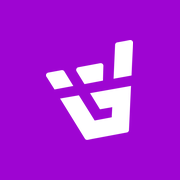
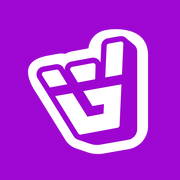
Marca nova: simbolo 3D da mao e roxo exato #9E06D1; secundario mais opaco (roxo a 40% com borda cheia), selos e chips em roxo solido com letra branca

Changed region(s): [[0.1389, 0.1389, 0.8333, 0.8611]]

diff --git a/src/components/ui/form.tsx b/src/components/ui/form.tsx
@@ -228,7 +228,7 @@ export function Grupo({ children, style }: { children: React.ReactNode; style?: 
 export type Tom = 'roxo' | 'verde' | 'ambar' | 'vermelho' | 'neutro'
 
 const TONS: Record<Tom, { fundo: string; texto: string }> = {
-  roxo: { fundo: color.primaryDk, texto: color.primaryCh },
+  roxo: { fundo: color.primary, texto: color.text },
   verde: { fundo: 'rgba(61, 214, 140, 0.14)', texto: color.success },
   ambar: { fundo: 'rgba(245, 165, 36, 0.14)', texto: color.warn },
   vermelho: { fundo: 'rgba(255, 122, 181, 0.14)', texto: color.danger },
@@ -948,12 +948,12 @@ const s = StyleSheet.create({
     backgroundColor: onDark.fill,
     paddingHorizontal: space.base,
   },
-  // Secundario: o roxo da marca em tom claro — destaca sem disputar com o
-  // principal (roxo cheio). O texto e o primaryLt, que passa no contraste AA.
+  // Secundario: o roxo da marca a 40% com borda no roxo cheio — destaca sem
+  // disputar com o principal (roxo cheio). Letra branca.
   botaoSecundario: {
-    backgroundColor: 'rgba(158, 5, 210, 0.16)',
+    backgroundColor: color.primarySoft,
     borderWidth: 1,
-    borderColor: 'rgba(194, 75, 238, 0.55)',
+    borderColor: color.primary,
   },
   botaoPerigo: {
     backgroundColor: 'rgba(255, 122, 181, 0.1)',
@@ -961,7 +961,7 @@ const s = StyleSheet.create({
     borderColor: 'rgba(255, 122, 181, 0.5)',
   },
   botaoRotulo: { ...type.body, fontFamily: 'Inter_600SemiBold', color: color.text },
-  textoSecundario: { color: color.primaryLt },
+  textoSecundario: { color: color.text },
   textoPerigo: { color: color.danger },
   textoAviso: { color: color.warn },
   desabilitado: { opacity: 0.4 },
@@ -1153,7 +1153,7 @@ const s = StyleSheet.create({
     paddingVertical: space.xs,
   },
   dia: { flex: 1, alignItems: 'center' },
-  diaFaixa: { backgroundColor: color.primaryDk },
+  diaFaixa: { backgroundColor: color.primarySoft },
   diaMiolo: {
     width: MIOLO,
     height: MIOLO,
@@ -1196,7 +1196,7 @@ const s = StyleSheet.create({
   diaTexto: { ...type.small, fontFamily: 'Inter_400Regular', color: color.text },
   diaTextoAtivo: { fontFamily: 'Inter_700Bold' },
   // anel discreto do dia de hoje
-  diaHoje: { borderWidth: 1.5, borderColor: 'rgba(194, 75, 238, 0.55)' },
+  diaHoje: { borderWidth: 1.5, borderColor: color.primary },
   diaMarca: { position: 'absolute', bottom: 1, width: 5, height: 5, borderRadius: 3 },
   diaIniciais: {
     marginTop: 3,

diff --git a/inscricao/public/estilo.css b/inscricao/public/estilo.css
@@ -7,8 +7,9 @@
   --text: #ffffff;
   --muted: #9a9aad;
   --faint: #8a8aa0;
-  --primary: #9e05d2;
-  --primary-lt: #c24bee;
+  --primary: #9e06d1;
+  --primary-lt: #bf5be1;
+  --primary-soft: rgba(158, 6, 209, 0.4);
   --primary-dk: #3a0a52;
   --success: #3dd68c;
   --warn: #f5a524;
@@ -38,7 +39,8 @@ body {
   border-bottom: 1px solid var(--border);
   padding: calc(env(safe-area-inset-top) + 12px) 16px 12px;
 }
-.marca { font-weight: 700; letter-spacing: 0.04em; }
+.marca { display: flex; align-items: center; gap: 8px; font-weight: 700; letter-spacing: 0.04em; }
+.marca span { margin-left: -4px; }
 .marca span { color: var(--muted); font-weight: 400; letter-spacing: 0; }
 .progresso { margin-top: 10px; }
 .progresso-texto { display: flex; gap: 8px; font-size: 13px; color: var(--muted); margin-bottom: 6px; }
@@ -90,7 +92,7 @@ input:not([type='radio']):not([type='checkbox']):not([type='file']), select, tex
 }
 select { background-image: linear-gradient(45deg, transparent 50%, var(--muted) 50%), linear-gradient(135deg, var(--muted) 50%, transparent 50%); background-position: calc(100% - 20px) 55%, calc(100% - 15px) 55%; background-size: 5px 5px; background-repeat: no-repeat; padding-right: 36px; }
 input[type='date'] { min-height: 48px; }
-input:focus, select:focus, textarea:focus { border-color: var(--primary-lt); box-shadow: 0 0 0 3px rgba(194, 75, 238, 0.25); }
+input:focus, select:focus, textarea:focus { border-color: var(--primary-lt); box-shadow: 0 0 0 3px rgba(158, 6, 209, 0.35); }
 .invalido { border-color: var(--warn) !important; }
 textarea { resize: vertical; }
 .dupla { display: grid; grid-template-columns: 1fr 1fr; gap: 12px; }
@@ -137,7 +139,7 @@ input[type='radio'], input[type='checkbox'] { width: 20px; height: 20px; margin:
 }
 .botao:active { transform: scale(0.97); }
 .botao:disabled { opacity: 0.5; cursor: default; transform: none; }
-.botao.secundario { background: transparent; color: var(--primary-lt); border-color: var(--primary-lt); }
+.botao.secundario { background: var(--primary-soft); color: #fff; border-color: var(--primary); }
 #voltar { flex: 0 0 auto; }
 .link { background: none; border: 0; color: var(--primary-lt); font: 600 15px inherit; font-family: inherit; padding: 8px 0; cursor: pointer; }
 #quero-resp2 { width: 100%; margin-bottom: 16px; }

diff --git a/src/app/(tabs)/jogo/index.tsx b/src/app/(tabs)/jogo/index.tsx
@@ -605,9 +605,9 @@ const st = StyleSheet.create({
     paddingVertical: space.xs,
     borderRadius: radius.chip,
     borderCurve: 'continuous',
-    backgroundColor: color.primaryDk,
+    backgroundColor: color.primary,
   },
-  seloCategoriaRotulo: { ...type.caption, fontFamily: 'Inter_600SemiBold', color: color.primaryCh },
+  seloCategoriaRotulo: { ...type.caption, fontFamily: 'Inter_600SemiBold', color: color.text },
 
   cardPartida: {
     flexDirection: 'row',
@@ -629,10 +629,10 @@ const st = StyleSheet.create({
     justifyContent: 'center',
     borderRadius: radius.botao,
     borderCurve: 'continuous',
-    // o mesmo secundario do app: roxo claro, abaixo do principal (roxo cheio)
-    backgroundColor: 'rgba(158, 5, 210, 0.16)',
+    // o mesmo secundario do app: roxo a 40%, abaixo do principal (roxo cheio)
+    backgroundColor: color.primarySoft,
     borderWidth: 1,
-    borderColor: 'rgba(194, 75, 238, 0.55)',
+    borderColor: color.primary,
   },
-  botaoSecundarioRotulo: { ...type.body, fontFamily: 'Inter_600SemiBold', color: color.primaryLt },
+  botaoSecundarioRotulo: { ...type.body, fontFamily: 'Inter_600SemiBold', color: color.text },
 })

diff --git a/src/theme/tokens.ts b/src/theme/tokens.ts
@@ -22,11 +22,15 @@ export const color = {
   muted: '#9A9AAD',
   faint: '#8A8AA0',
 
-  // marca
-  primary: '#9E05D2',
-  primaryLt: '#C24BEE',
-  primaryCh: '#D06CF5',
+  // marca: #9E06D1 e o roxo exato da marca (logo e kit), em tudo que e cor
+  // cheia. primaryLt/primaryCh sao o mesmo roxo clareado so o bastante para
+  // texto pequeno ler no escuro (4,5:1 no bg, surface e surface2).
+  primary: '#9E06D1',
+  primaryLt: '#BF5BE1',
+  primaryCh: '#BF5BE1',
   primaryDk: '#3A0A52',
+  /** fundo do botao secundario e de faixas: o roxo da marca a 40% */
+  primarySoft: 'rgba(158, 6, 209, 0.4)',
 
   // estado
   success: '#3DD68C',
@@ -36,8 +40,8 @@ export const color = {
 
 /**
  * Contraste: primary rende 3.19:1 sobre bg — aprovado para area cheia
- * (botao, icone), reprovado para texto. Texto e dado em roxo usam
- * primaryLt, que rende 5.18:1 e passa no criterio AA.
+ * (botao, icone), reprovado para texto; texto branco sobre ele rende 6.18:1.
+ * Texto e dado em roxo usam primaryLt, que passa 4.5:1 (criterio AA).
  */
 export const onDark = {
   fill: color.primary,

diff --git a/inscricao/public/index.html b/inscricao/public/index.html
@@ -10,11 +10,13 @@
   <link rel="preconnect" href="https://fonts.googleapis.com" />
   <link rel="preconnect" href="https://fonts.gstatic.com" crossorigin />
   <link href="https://fonts.googleapis.com/css2?family=Inter:wght@400;600;700&display=swap" rel="stylesheet" />
+  <link rel="icon" href="/icone.png" type="image/png" />
+  <link rel="apple-touch-icon" href="/icone.png" />
   <link rel="stylesheet" href="/estilo.css" />
 </head>
 <body>
   <header class="topo">
-    <div class="marca">ADAM <span>· Inscrição</span></div>
+    <div class="marca"><img src="/simbolo.png" alt="" width="28" height="28" />ADAM <span>· Inscrição</span></div>
     <div class="progresso" id="progresso" hidden>
       <div class="progresso-texto"><span id="passo-numero"></span><span id="passo-nome"></span></div>
       <div class="barra"><div class="barra-cheia" id="barra"></div></div>

diff --git a/src/components/brand/adam-mark.tsx b/src/components/brand/adam-mark.tsx
@@ -4,14 +4,10 @@ import { Text } from 'react-native'
 import { color } from '@/theme/tokens'
 
 /**
- * Simbolo da marca, direto do kit oficial (Marca > Institucional >
- * PNG fundo transparente > "simbolo regular roxo").
- *
- * A arte e monocromatica em #9E05D1, praticamente o token `primary`
- * (#9E05D2) — a diferenca de um bit por canal nao e perceptivel.
- *
- * Cuidado ao trocar de arquivo: no kit, "simbolo tridimencional roxo-43"
- * esta nomeado como roxo mas a arte e preta, e sumiria no fundo escuro.
+ * Simbolo da marca: a mao em 3D, miolo branco, contorno e volume no roxo
+ * da marca e borda branca de adesivo (fundo transparente). Veio do arquivo
+ * "Design sem nome.pdf" da coordenacao, em 29/10/2026; o roxo e o #9E06D1
+ * do token `primary`.
  */
 
 const SYMBOL = require('../../../assets/brand/adam-symbol.png')

diff --git a/src/components/livro-form.tsx b/src/components/livro-form.tsx
@@ -197,7 +197,7 @@ const st = StyleSheet.create({
     borderColor: color.border,
   },
   capa: { width: 42, height: 54, borderRadius: 6, borderCurve: 'continuous' },
-  capaVazia: { backgroundColor: color.primaryDk, alignItems: 'center', justifyContent: 'center' },
+  capaVazia: { backgroundColor: color.primary, alignItems: 'center', justifyContent: 'center' },
   capaLetra: { ...type.h2, fontFamily: 'Inter_700Bold', color: color.primaryCh },
   texto: { flex: 1, gap: 2 },
   titulo: { ...type.body, fontFamily: 'Inter_600SemiBold', color: color.text },

diff --git a/src/components/escala/pecas.tsx b/src/components/escala/pecas.tsx
@@ -267,7 +267,7 @@ const st = StyleSheet.create({
     minWidth: 56,
     justifyContent: 'center',
   },
-  chipAtivo: { backgroundColor: 'rgba(158, 5, 210, 0.22)', borderColor: color.primaryLt },
+  chipAtivo: { backgroundColor: color.primary, borderColor: color.primary },
   chipAmbar: { backgroundColor: 'rgba(245, 165, 36, 0.12)', borderColor: color.warn },
   chipRotulo: { ...type.small, fontFamily: 'Inter_600SemiBold', color: color.muted },
   chipRotuloAtivo: { color: color.text },

diff --git a/src/app/(tabs)/jogo/convocados/[id].tsx b/src/app/(tabs)/jogo/convocados/[id].tsx
@@ -213,9 +213,9 @@ const st = StyleSheet.create({
     paddingVertical: space.xs,
     borderRadius: radius.chip,
     borderCurve: 'continuous',
-    backgroundColor: color.primaryDk,
+    backgroundColor: color.primary,
   },
-  seloRotulo: { ...type.caption, fontFamily: 'Inter_600SemiBold', color: color.primaryCh },
+  seloRotulo: { ...type.caption, fontFamily: 'Inter_600SemiBold', color: color.text },
 
   aviso: { paddingLeft: space.lg, overflow: 'hidden' },
   acentoAviso: {

diff --git a/src/app/(tabs)/jogo/convocar/[id].tsx b/src/app/(tabs)/jogo/convocar/[id].tsx
@@ -265,9 +265,9 @@ const st = StyleSheet.create({
     paddingVertical: space.xs,
     borderRadius: radius.chip,
     borderCurve: 'continuous',
-    backgroundColor: color.primaryDk,
+    backgroundColor: color.primary,
   },
-  seloRotulo: { ...type.caption, fontFamily: 'Inter_600SemiBold', color: color.primaryCh },
+  seloRotulo: { ...type.caption, fontFamily: 'Inter_600SemiBold', color: color.text },
 
   botao: {
     minHeight: target.minimo + 8,

diff --git a/src/components/ui/index.tsx b/src/components/ui/index.tsx
@@ -289,9 +289,9 @@ const s = StyleSheet.create({
 
   avatar: {
     overflow: 'hidden',
-    backgroundColor: color.primaryDk,
+    backgroundColor: color.primary,
     alignItems: 'center',
     justifyContent: 'center',
   },
-  avatarIniciais: { ...type.small, fontFamily: 'Inter_600SemiBold', color: color.primaryCh },
+  avatarIniciais: { ...type.small, fontFamily: 'Inter_600SemiBold', color: color.text },
 })

diff --git a/public/instalar.html b/public/instalar.html
@@ -11,7 +11,7 @@
 <style>
   :root {
     --bg: #0a0a12; --card: #14141f; --borda: #26263a; --texto: #ecebf5;
-    --suave: #a9a7bd; --roxo: #c24bee; --roxo-forte: #9e05d2;
+    --suave: #a9a7bd; --roxo: #bf5be1; --roxo-forte: #9e06d1;
   }
   * { box-sizing: border-box; }
   html { -webkit-text-size-adjust: 100%; }
